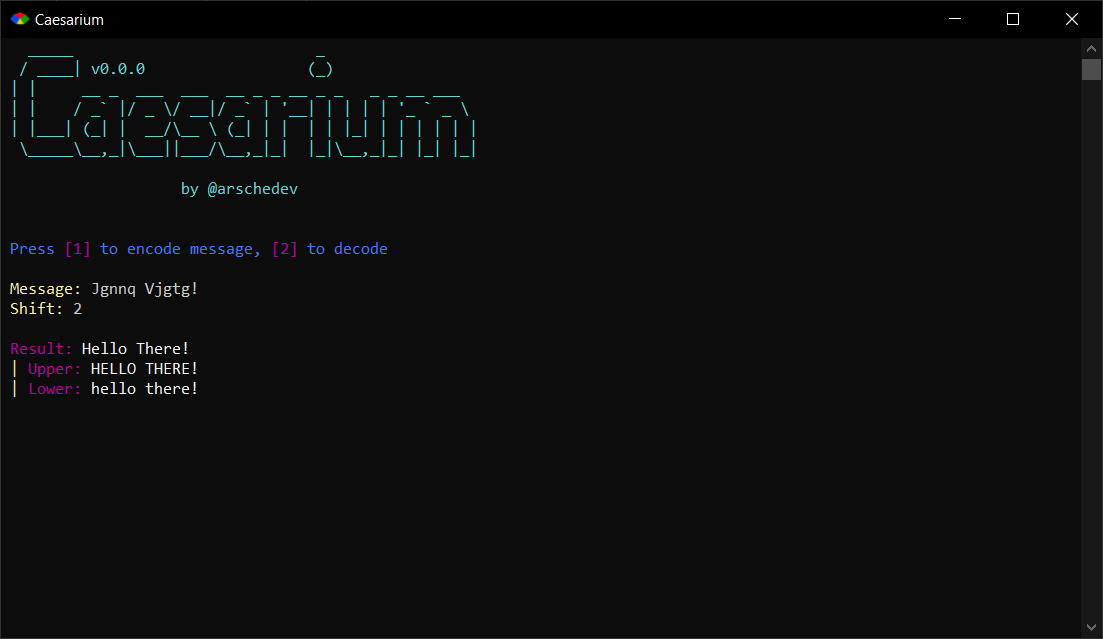
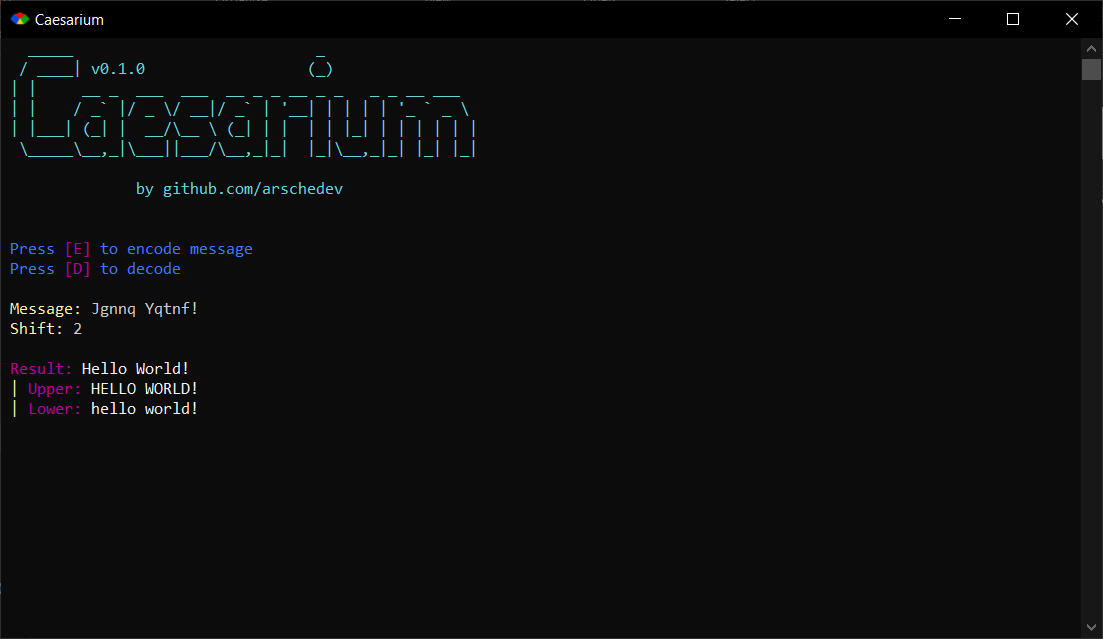
Caesarium: 0.1.0
- bug fix
- code refactor
- CLI update
- misc. minor changes

diff --git a/Projects/Ruby/Caesarium/main.rb b/Projects/Ruby/Caesarium/main.rb
@@ -1,104 +1,108 @@
 # ruby main.rb
-# ruby main.rb <string> <shift>
+# ruby main.rb <message> <shift>
 # ruby main.rb "Hello World!" 2
 
 require 'colorize'
-require 'os'
 
 require 'io/console'
-require './modules/ASCII.rb'
+require './modules/title.rb'
+require './modules/parts/Parts.rb'
 require './modules/encoder.rb'
 require './modules/keypress.rb'
-require './modules/stdgets.rb'
+require './modules/Utils.rb'
 
-def pause
-	print "\n"
-	STDIN.getch
-end
+cli_mode = false
 
-cli = false
+message = "", shift = 0
 
-string = "", shift = 0
-
-decode = false
+decodeMode = false
 
 # Title
-system("title Caesarium") if OS.windows?
-system("echo \"\033]0;Caesarium\007\"") if OS.linux?
-system("echo -n -e \"\033]0;Caesarium\007\"") if OS.mac?
+Title.SetTitle("Caesarium")
 
 # Command Line Arguments
 if ARGV[0] && ARGV[1]
-	string = ARGV[0]
+	message = ARGV[0]
 	shift = ARGV[1].to_i
 
 # Command Line Interface
 else
-	cli = true
-	puts "#{ASCII.light_cyan}\n#{" " * 20}by @arschedev\n\n".light_cyan
+	cli_mode = true
 	#
-	puts " Press ".light_blue +
-	"[1]".light_magenta +
-	" to encode message, ".light_blue +
-	"[2]".light_magenta +
-	" to decode".light_blue
-	print "\n"
+	puts Parts.CAESARIUM
+	puts Parts.DIALOG
 	#
-	loop do
-		breakl = false
-		Keypress.Handle do |k|
-			decode = true if k == "2"
-			breakl = true if k == "2" or k == "1"
-			if k == ""
-				print "\n"
-				exit
-			end
+	Keypress.LoopHandle do |k|
+		k = k.downcase
+		# cyrillic to latin
+		k = "e" if k == "у"
+		k = "d" if k == "в"
+		#
+		decodeMode = true if k == "d"
+		break if k == "e" || k == "d"
+		if k == ""
+			print "\n"
+			exit
 		end
-		break if breakl
 	end
 	#
-	print " Message: ".light_yellow
+	print Parts.MESSAGE
 	loop do
-		string = stdgets
-		string == "" ? next : break
-	end
-	#
-	print "\n Shift: ".light_yellow
-	loop do
-		shift = stdgets
-		shift.strip!
-		next if shift == ""
-		if shift.to_i == 0
-			puts "\n Error: invalid shift value".red
-			print "\n Shift: ".light_yellow
+		message = gets.chomp.strip
+		if message != ""
+			break
+		else
+			Utils.Cls
+			puts Parts.CAESARIUM
+			puts Parts.DIALOG
+			print Parts.MESSAGE
 			next
 		end
-		shift = shift.to_i
-		break
+	end
+	#
+	print Parts.SHIFT
+	loop do
+		shift = gets.chomp.strip
+		if shift != ""
+			if shift.to_i == 0
+				puts " Error: invalid shift value".red
+				print "\n Shift: ".light_yellow
+				next
+			end
+			shift = shift.to_i
+			break
+		else
+			Utils.Cls
+			puts Parts.CAESARIUM
+			puts Parts.DIALOG
+			print Parts.MESSAGE("#{message}\n")
+			print Parts.SHIFT
+			next
+		end
 	end
 end
 
 # Shift limit
 if shift > 26
-	if cli
-		puts "\n Error: #{shift} for shift is too much. The maximum is 26".red
-		pause
+	if cli_mode
+		puts " Error: #{shift} for shift is too much. The maximum is 26".red
+		Utils.Pause
 	else
 		puts "Error: given shift is too big. The maximum is 26"
 	end
 	exit 1
 end
 
-ENCODED = Encoder.encode(string, decode ? -shift : shift)
+RESULT = Encoder.Encode(message, decodeMode ? -shift : shift)
 
-if cli
-	puts "\n\n " + "Result: ".light_magenta + "#{ENCODED.result.light_white}" +
-	"\n | ".light_yellow + "Upper: ".light_magenta + "#{ENCODED.upper.light_white}" +
-	"\n | ".light_yellow + "Lower: ".light_magenta + "#{ENCODED.lower.light_white}"
+if cli_mode
+	puts "\n " + "Result: ".light_magenta + "#{RESULT.normal.light_white}" +
+	"\n | ".light_yellow + "Upper: ".light_magenta + "#{RESULT.upper.light_white}" +
+	"\n | ".light_yellow + "Lower: ".light_magenta + "#{RESULT.lower.light_white}"
 else
-	puts ENCODED.result
+	puts RESULT.normal
 	exit 0
 end
 
 # Press any key to continue...
-pause
+Utils.Pause

diff --git a/Projects/Ruby/Caesarium/modules/encoder.rb b/Projects/Ruby/Caesarium/modules/encoder.rb
@@ -2,20 +2,15 @@
 # Encoder
 #
 
-def isUpper?(string)
-	string == string.upcase
-end
-
-def isLower?(string)
-	string == string.downcase
-end
+require './modules/Utils.rb'
 
 module Encoder
-	def Encoder.encode(string, shift)
-		alphabetU = "ABCDEFGHIJKLMNOPQRSTUVWXYZ".split ""
-		alphabetL = "abcdefghijklmnopqrstuvwxyz".split ""
+	def Encoder.Encode(message, shift)
+		alphabets = Struct
+			.new(:latin_upper, :latin_lower)
+			.new("ABCDEFGHIJKLMNOPQRSTUVWXYZ".split(""), "abcdefghijklmnopqrstuvwxyz".split(""))
 
-		chars = string.split ""
+		chars = message.split ""
 
 		result = ""
 
@@ -26,10 +21,10 @@ module Encoder
 
 			# Upper/Lower
 			if char != nil
-				if isUpper? char
-					alphabet = alphabetU
-				elsif isLower? char
-					alphabet = alphabetL
+				if Utils.isUpper? char
+					alphabet = alphabets.latin_upper
+				elsif Utils.isLower? char
+					alphabet = alphabets.latin_lower
 				else
 					result << char
 					next
@@ -59,6 +54,6 @@ module Encoder
 		end
 
 		# return
-		Struct.new(:result, :upper, :lower).new(result, result.upcase, result.downcase)
+		Struct.new(:normal, :upper, :lower).new(result, result.upcase, result.downcase)
 	end
 end

diff --git a/Projects/Ruby/Caesarium/modules/parts/Parts.rb b/Projects/Ruby/Caesarium/modules/parts/Parts.rb
@@ -1,0 +1,41 @@
+#
+# Parts
+#
+
+require 'colorize'
+
+require './VERSION.rb'
+
+module Parts
+  #
+  def Parts.CAESARIUM
+"   _____                           _
+  / ____| #{VERSION}                  (_)
+ | |     __ _  ___  ___  __ _ _ __ _ _   _ _ __ ___
+ | |    / _` |/ _ \\/ __|/ _` | '__| | | | | '_ ` _ \\
+ | |___| (_| |  __/\\__ \\ (_| | |  | | |_| | | | | | |
+  \\_____\\__,_|\\___||___/\\__,_|_|  |_|\\__,_|_| |_| |_|
+".light_cyan + "\n#{" " * 15}by github.com/arschedev\n\n".light_cyan
+  end
+  #
+  #
+  def Parts.DIALOG
+    " Press ".light_blue +
+    "[E]".light_magenta +
+    " to encode message\n".light_blue +
+    " Press ".light_blue +
+    "[D]".light_magenta +
+    " to decode".light_blue + "\n\n"
+  end
+  #
+  #
+  def Parts.MESSAGE(value = "")
+    " Message: ".light_yellow + value
+  end
+  #
+  #
+  def Parts.SHIFT
+    " Shift: ".light_yellow
+  end
+  #
+end

diff --git a/Projects/Ruby/Caesarium/modules/Utils.rb b/Projects/Ruby/Caesarium/modules/Utils.rb
@@ -1,0 +1,22 @@
+#
+# Utils
+#
+
+module Utils
+  def Utils.Cls
+    STDOUT.clear_screen
+  end
+  #
+  def Utils.Pause
+    print "\n"
+	  STDIN.getch
+  end
+  #
+  def Utils.isUpper?(string)
+	  string == string.upcase
+  end
+  #
+  def Utils.isLower?(string)
+	  string == string.downcase
+  end
+end

diff --git a/Projects/Ruby/Caesarium/modules/title.rb b/Projects/Ruby/Caesarium/modules/title.rb
@@ -1,0 +1,13 @@
+#
+# Title
+#
+
+require 'os'
+
+module Title
+  def Title.SetTitle(title)
+    system("title #{title}") if OS.windows?
+    system("echo \"\033]0;#{title}\007\"") if OS.linux?
+    system("echo -n -e \"\033]0;#{title}\007\"") if OS.mac?
+  end
+end

diff --git a/Projects/Ruby/Caesarium/modules/keypress.rb b/Projects/Ruby/Caesarium/modules/keypress.rb
@@ -9,4 +9,11 @@ module Keypress
     key = STDIN.getch
     block.call key
   end
+  #
+  def Keypress.LoopHandle(&block)
+    loop do
+      key = STDIN.getch
+      block.call key
+    end
+  end
 end

diff --git a/Projects/Ruby/Caesarium/VERSION.rb b/Projects/Ruby/Caesarium/VERSION.rb
@@ -1,0 +1,1 @@
+VERSION = "v0.1.0"

diff --git a/Projects/Ruby/Caesarium/README.md b/Projects/Ruby/Caesarium/README.md
@@ -1,5 +1,5 @@
 # Caesarium
-#### Caesar cipher endcoder / decoder
+#### Caesar cipher encoder / decoder
 
 ![Caesarium](./caesarium.png)
 
@@ -18,21 +18,21 @@ ruby main.rb
 
 ###### Command Line Arguments
 ```
-ruby main.rb <string> <shift>
+ruby main.rb <message> <shift>
 ```
 
-- Shift "Hello There!" by 2
+- Shift "Hello World!" by 2
 
 ```
-> ruby main.rb "Hello There!" 2
-Jgnnq Vjgtg!
+> ruby main.rb "Hello World!" 2
+Jgnnq Yqtnf!
 
 ```
 
 - Decoding
 
 ```
-> ruby main.rb "Jgnnq Vjgtg!" -2
+> ruby main.rb "Jgnnq Yqtnf!" -2
 Hello There!
 
 ```
